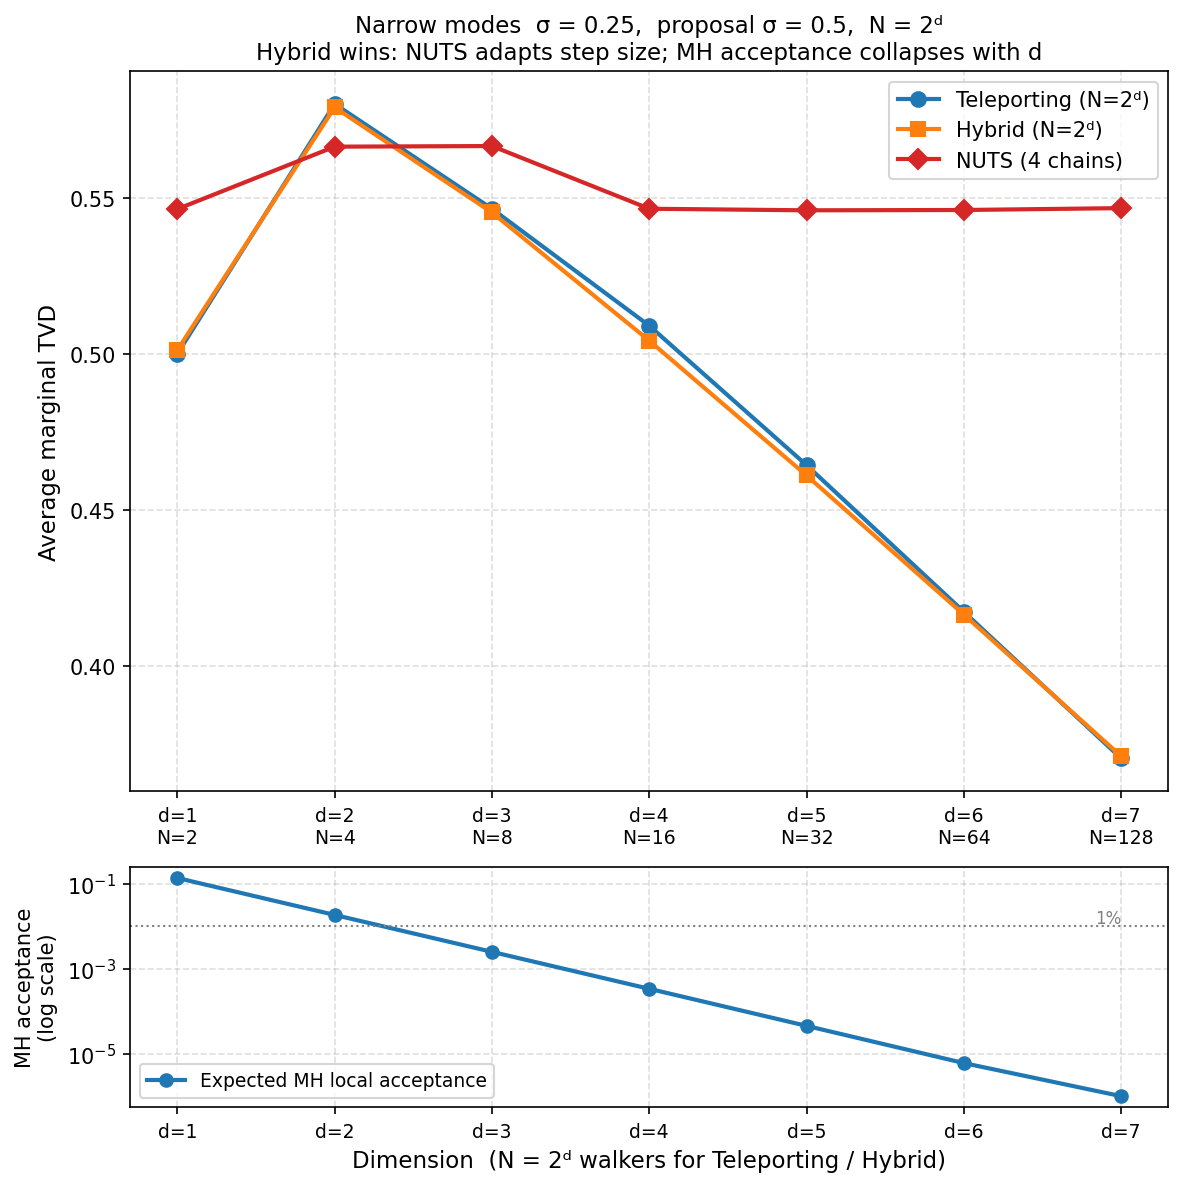
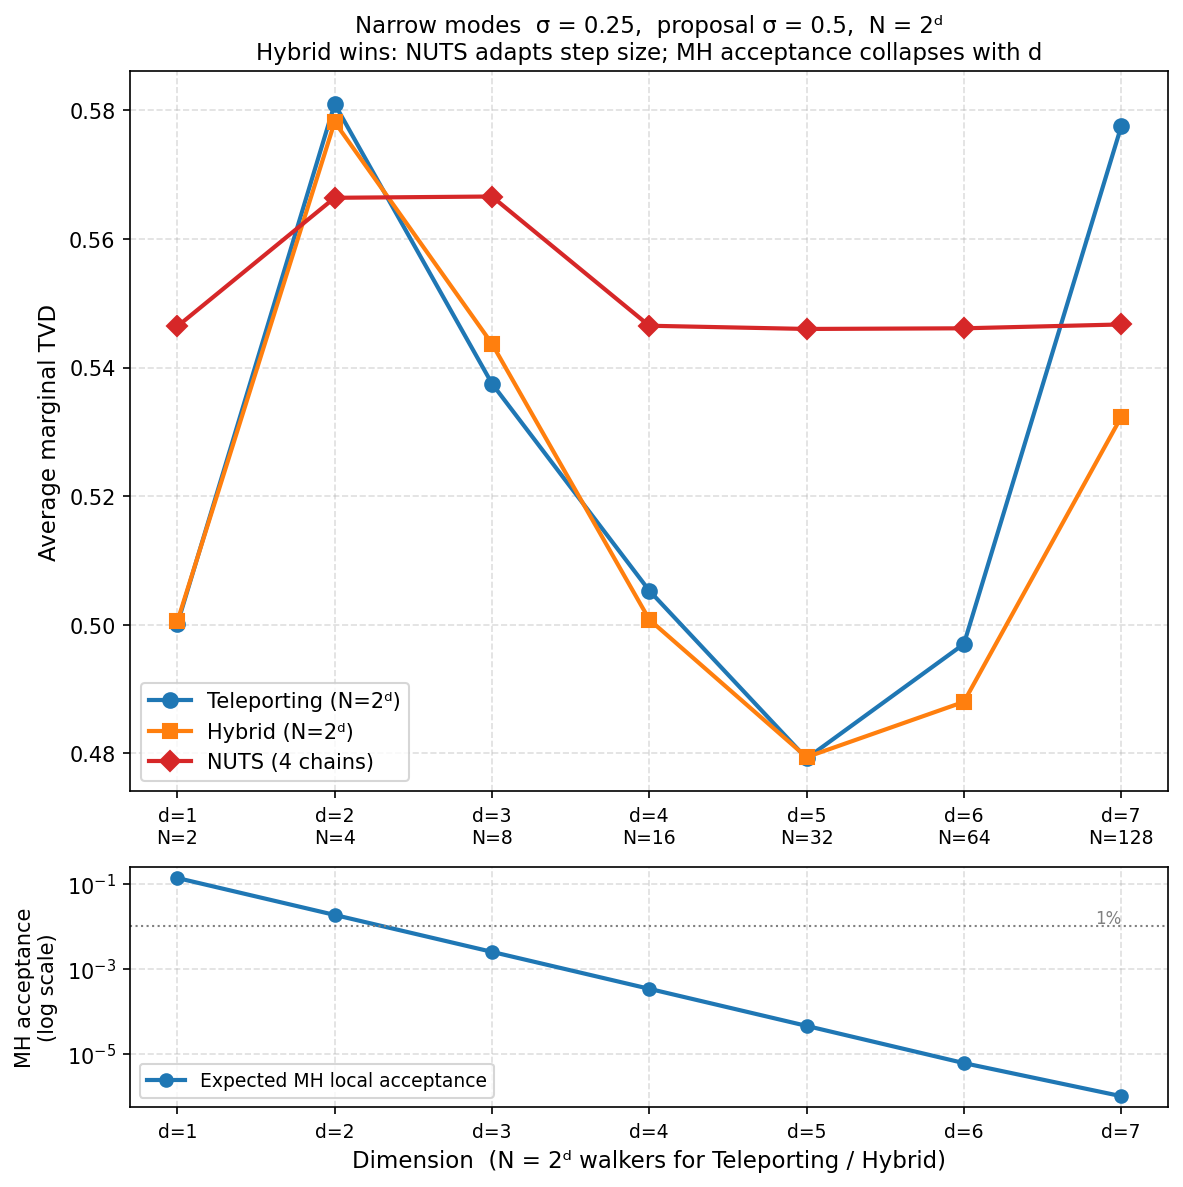
fixed

diff --git a/scripts/narrow_modes_scaling.py b/scripts/narrow_modes_scaling.py
@@ -81,35 +81,42 @@ def true_marginal(grid):
             0.5 * _norm.pdf(grid, +5.0, SIGMA_MODE))
 
 
+INIT_SCALE = 2.0  # 8× the mode width — walkers start far from the target
+
 def make_initial_walkers(dim, N, rng):
-    # Start walkers inside the modes (scale = SIGMA_MODE)
-    # so that the initial TVD is near zero and we measure mixing quality,
-    # not just the ability to find the modes.
+    # Start walkers well outside the narrow modes so samplers must find them.
+    # With SIGMA_MODE=0.25 and INIT_SCALE=2.0, initial positions are ~8σ off.
+    # MH (σ_prop=0.5) cannot navigate to the mode; NUTS follows the gradient.
     modes = rng.choice([-5.0, 5.0], size=N)
-    return rng.normal(loc=modes[:, np.newaxis], scale=SIGMA_MODE,
+    return rng.normal(loc=modes[:, np.newaxis], scale=INIT_SCALE,
                       size=(N, dim))
 
 
 # ── TVD ───────────────────────────────────────────────────────────────────────
 
-def average_marginal_tvd(chains, n_grid=500):
+def average_marginal_tvd(chains, n_grid=1000):
     from scipy.stats import gaussian_kde
     chains = np.asarray(chains, dtype=float)
     if chains.ndim == 2:
         chains = chains[:, :, np.newaxis]
-    # narrow modes: capture ±8σ from each mode centre
-    lo = -5.0 - 8 * SIGMA_MODE
-    hi =  5.0 + 8 * SIGMA_MODE
+    # Wide grid to capture both modes and any unconverged walkers
+    lo = -5.0 - 10 * SIGMA_MODE
+    hi =  5.0 + 10 * SIGMA_MODE
     grid   = np.linspace(lo, hi, n_grid)
     dx     = grid[1] - grid[0]
     p_true = true_marginal(grid)
     tvds   = []
     for k in range(chains.shape[2]):
         samples = chains[:, :, k].ravel()
-        if np.std(samples) < 1e-10:
+        s = np.std(samples)
+        if s < 1e-10:
             tvds.append(0.5)
             continue
-        p_kde = gaussian_kde(samples, bw_method="scott")(grid)
+        # Use a fixed absolute bandwidth = SIGMA_MODE so narrow modes are
+        # resolved correctly.  Scott's rule gives ~1.1 for bimodal data
+        # (dominated by mode separation), which smears the narrow peaks.
+        bw = SIGMA_MODE / s   # gaussian_kde multiplies factor × std(data)
+        p_kde = gaussian_kde(samples, bw_method=bw)(grid)
         tvds.append(0.5 * np.sum(np.abs(p_true - p_kde)) * dx)
     return float(np.mean(tvds))
 
